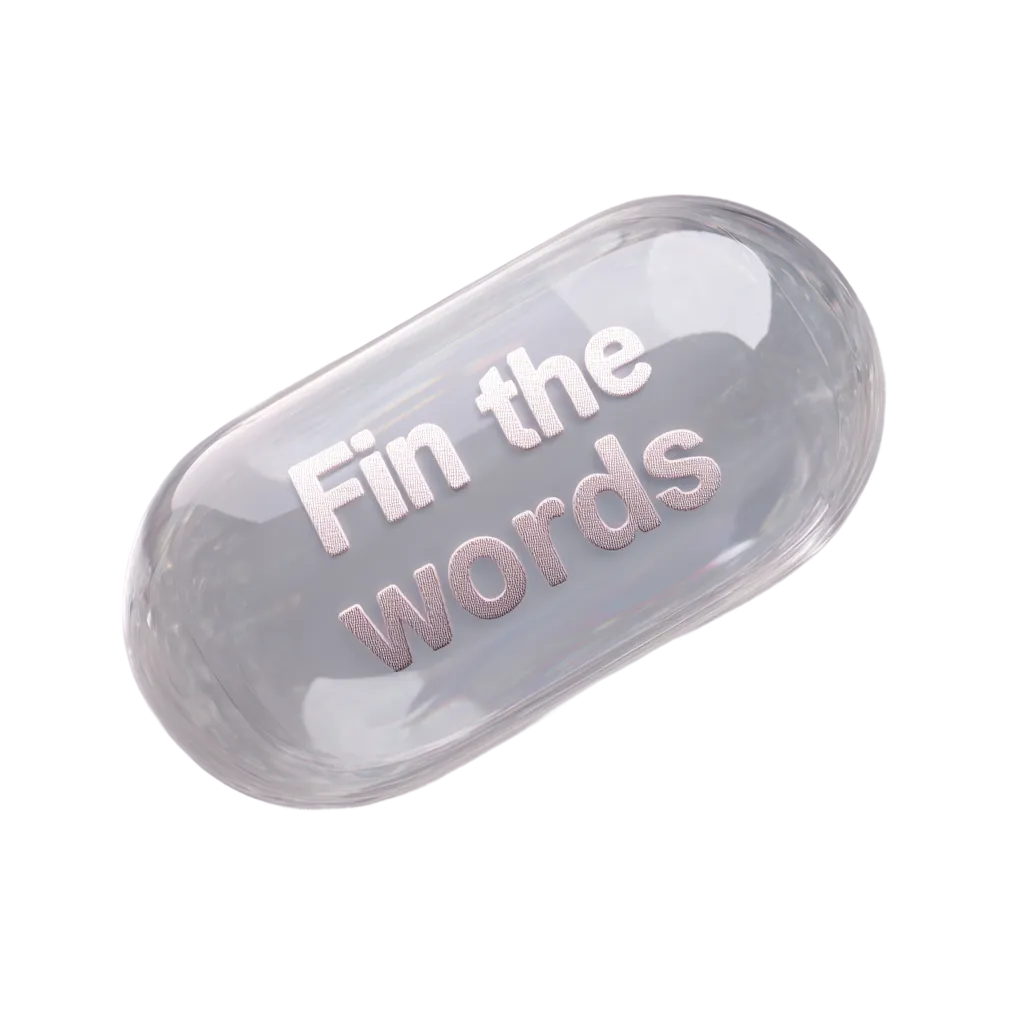
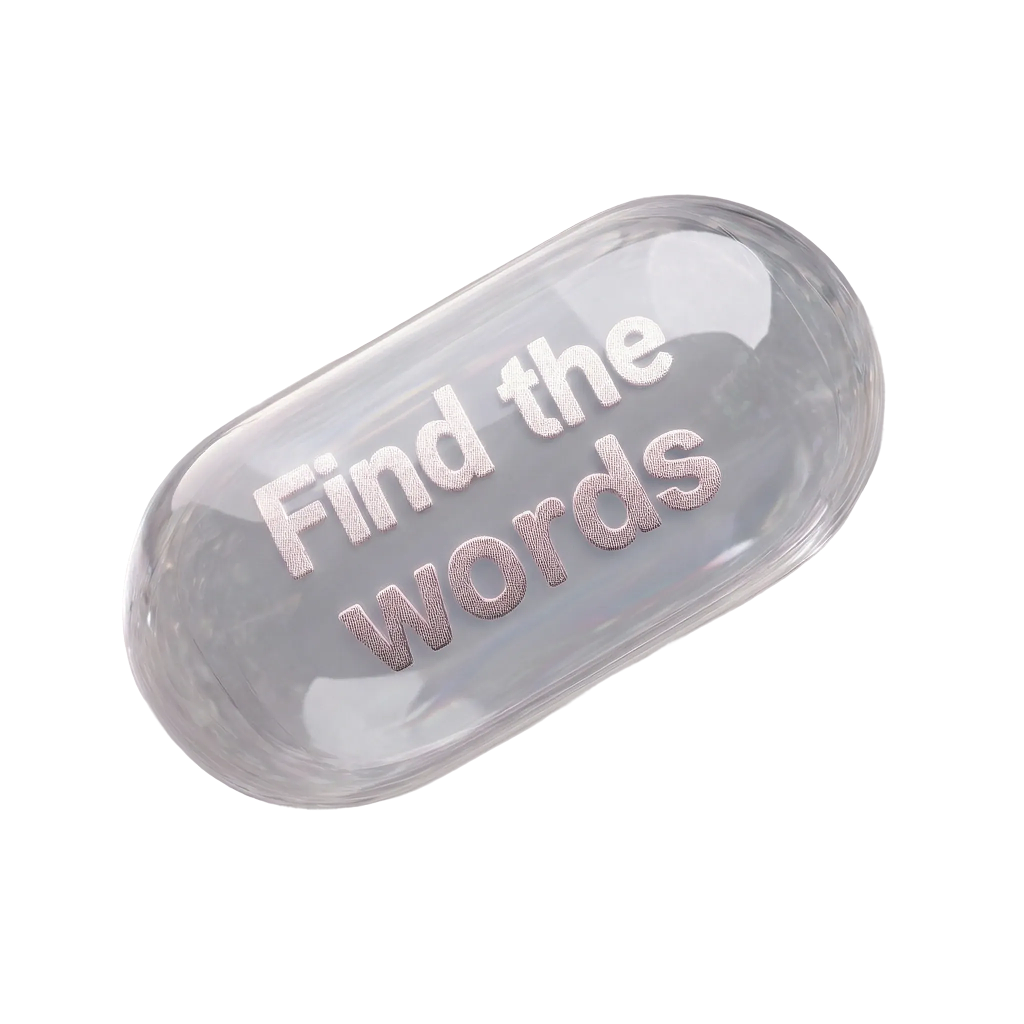
finally

Changed region(s): [[0.25, 0.3125, 0.7188, 0.6562], [0.5625, 0.6562, 0.5938, 0.6875]]

diff --git a/src/app/page.tsx b/src/app/page.tsx
@@ -945,13 +945,13 @@ function TranslateEsIcon() {
   );
 }
 
-function HeartIcon({ filled, size = 18 }: { filled: boolean; size?: number }) {
+function HeartIcon({ filled, size = 18, strokeColor = 'black' }: { filled: boolean; size?: number; strokeColor?: string }) {
   return (
     <svg width={size} height={size} viewBox="0 0 24 24" fill="none" aria-hidden="true">
       <path
         d="M12 21.35l-1.45-1.32C5.4 15.36 2 12.28 2 8.5 2 5.42 4.42 3 7.5 3c1.74 0 3.41.81 4.5 2.09C13.09 3.81 14.76 3 16.5 3 19.58 3 22 5.42 22 8.5c0 3.78-3.4 6.86-8.55 11.54L12 21.35z"
         fill={filled ? '#FF3B30' : 'none'}
-        stroke={filled ? '#FF3B30' : 'black'}
+        stroke={filled ? '#FF3B30' : strokeColor}
         strokeWidth="2"
       />
     </svg>
@@ -1018,7 +1018,7 @@ function MobileLanguageSelector({ lang, setLang }: { lang: 'EN' | 'SR' | 'ES'; s
   }
 
   return (
-    <div className="flex flex-col gap-1 bg-white/40 backdrop-blur-md rounded-full p-1 shadow-sm border border-white/20 animate-in fade-in zoom-in duration-200 pointer-events-auto">
+    <div className="flex flex-row gap-1 bg-white/40 backdrop-blur-md rounded-full p-1 shadow-sm border border-white/20 animate-in fade-in zoom-in duration-200 pointer-events-auto">
       {sortedLangs.map((l) => (
         <LangPill
           key={l}
@@ -1577,6 +1577,7 @@ export default function Page() {
 
   return (
     <div className="w-full h-[100svh] bg-[#c5cdd8] relative overflow-hidden text-black">
+
       <style jsx global>{`
         .desktopOnly {
           display: none;
@@ -1595,25 +1596,25 @@ export default function Page() {
 
         .thin-scroll {
           scrollbar-width: thin;
-          scrollbar-color: transparent transparent;
+          scrollbar-color: rgba(0, 0, 0, 0.08) transparent;
           transition: scrollbar-color 0.3s;
         }
         .thin-scroll:hover {
-          scrollbar-color: rgba(0, 0, 0, 0.28) transparent;
+          scrollbar-color: rgba(0, 0, 0, 0.15) transparent;
         }
         .thin-scroll::-webkit-scrollbar {
-          width: 6px;
+          width: 5px;
         }
         .thin-scroll::-webkit-scrollbar-track {
           background: transparent;
         }
         .thin-scroll::-webkit-scrollbar-thumb {
-          background: transparent;
+          background: rgba(0, 0, 0, 0.08);
           border-radius: 999px;
           transition: background 0.3s;
         }
         .thin-scroll:hover::-webkit-scrollbar-thumb {
-          background: rgba(0, 0, 0, 0.28);
+          background: rgba(0, 0, 0, 0.15);
         }
 
         /* girl image sizing (matches your previous bg-size behavior) */
@@ -1731,14 +1732,16 @@ export default function Page() {
 
       {/* =============== DESKTOP =============== */}
       <div className="desktopOnly">
-        <div className="absolute top-8 left-8 z-10 flex items-center gap-3">
+        <div className="absolute top-[27px] left-8 z-10 flex items-center gap-3">
           <TelegramButton size={40} />
         </div>
 
-        <div className="absolute top-8 left-1/2 -translate-x-1/2 text-center z-10 w-full px-4">
-          <h1 className="text-4xl lg:text-5xl font-bold text-black/30 tracking-tight mb-2">
-            Say it for me
-          </h1>
+        <div className="absolute top-[27px] left-1/2 -translate-x-1/2 text-center z-10 w-full px-4">
+          <img
+            src="/logo.svg"
+            alt="Say it for me"
+            className="h-10 lg:h-12 mx-auto mb-2 opacity-100 select-none pointer-events-none"
+          />
           <p className="text-lg text-black mt-0" style={{ fontFamily: 'Arial, sans-serif' }}>
             Your assistant when words are hard to find
           </p>
@@ -1748,7 +1751,7 @@ export default function Page() {
         <div className={`absolute left-12 top-32 z-10 ${glass} ${panelRadius} w-[340px] h-[610px] px-11 pt-28 pb-16 flex flex-col`}>
           <div className="flex items-center justify-between mb-4">
             <div className={`${textSize} font-bold text-black/70`}>Situation</div>
-            <div className="flex items-center gap-0">
+            <div className="flex items-center gap-[1px]">
               <button
                 type="button"
                 onClick={(e) => {
@@ -1763,11 +1766,11 @@ export default function Page() {
                     setSearchOpenDesktop(false);
                   }
                 }}
-                className={`w-9 h-9 grid place-items-center rounded-full transition-none ${scenario === 'saved' ? 'bg-black text-white' : 'bg-transparent hover:bg-white/60 text-black'}`}
+                className={`w-[34px] h-[34px] grid place-items-center rounded-full transition-none ${scenario === 'saved' ? 'bg-white/50 backdrop-blur-md shadow-sm text-black' : 'bg-transparent hover:bg-white/60 text-black'}`}
                 aria-label={scenario === 'saved' ? "Close saved" : "Saved phrases"}
                 title={scenario === 'saved' ? "Close saved" : "Saved phrases"}
               >
-                <HeartIcon filled={scenario === 'saved'} />
+                <HeartIcon size={18} filled={scenario === 'saved'} strokeColor={scenario === 'saved' ? '#FF3B30' : '#FF3B30'} />
               </button>
               <button
                 type="button"
@@ -1776,7 +1779,7 @@ export default function Page() {
                   e.stopPropagation();
                   setSearchOpenDesktop((v) => !v);
                 }}
-                className="w-9 h-9 grid place-items-center bg-transparent hover:bg-white/60 rounded-full transition-none"
+                className="w-[34px] h-[34px] grid place-items-center bg-transparent hover:bg-white/60 rounded-full transition-none"
                 aria-label="Search situations"
               >
                 <SearchIcon />
@@ -1845,10 +1848,10 @@ export default function Page() {
           <div className="flex justify-center mt-4">
             <button
               onClick={generateNext}
-              className="w-16 h-16 rounded-full shadow-xl transition-none hover:scale-105 active:scale-100 bg-[#6fbf3f] text-white flex items-center justify-center"
+              className="w-14 h-14 rounded-full shadow-xl transition-none hover:scale-105 active:scale-100 bg-[#6fbf3f] text-white flex items-center justify-center"
               aria-label="Generate phrase"
             >
-              <TwoStarsIcon size={34} />
+              <TwoStarsIcon size={30} />
             </button>
           </div>
         </div>
@@ -1923,17 +1926,17 @@ export default function Page() {
 
                 <button
                   onClick={generateNext}
-                  className="w-14 h-14 rounded-full bg-black text-white font-bold shadow-xl transition-none hover:scale-105 active:scale-100 text-[11px]"
+                  className="w-12 h-12 rounded-full bg-[#6fbf3f] text-white font-bold shadow-xl transition-none hover:scale-105 active:scale-100 text-[10px]"
                 >
                   Again
                 </button>
                 {result && (
                   <button
                     onClick={() => toggleFavorite(result.id)}
-                    className="w-14 h-14 rounded-full bg-white border border-black/5 flex items-center justify-center shadow-lg transition-none active:scale-100"
+                    className="w-12 h-12 rounded-full bg-white border border-black/5 flex items-center justify-center shadow-lg transition-none active:scale-100"
                     aria-label="Save"
                   >
-                    <HeartIcon size={24} filled={!!result && favorites.includes(result.id)} />
+                    <HeartIcon size={20} filled={!!result && favorites.includes(result.id)} strokeColor="#FF3B30" />
                   </button>
                 )}
               </div>
@@ -1945,24 +1948,19 @@ export default function Page() {
       {/* =============== MOBILE / TABLET (<1200) =============== */}
       <div className="mobileOnly">
         {/* Language Selector Top Left */}
-        <div className="absolute top-4 left-5 z-50 flex flex-col items-start">
+        <div className="absolute top-5 left-4 z-50 flex flex-col items-start">
           <MobileLanguageSelector lang={lang} setLang={setLang} />
         </div>
 
-        <div className="absolute top-4 right-5 z-10">
-          <TelegramButton size={38} />
+        <div className="absolute top-5 right-4 text-right z-10 flex justify-end">
+          <img
+            src="/logo.svg"
+            alt="Say it for me"
+            className="h-8 md:h-12 opacity-100 select-none pointer-events-none"
+          />
         </div>
 
-        <div className="absolute top-5 left-1/2 -translate-x-1/2 text-center z-10 w-full px-4">
-          <h1 className="text-3xl md:text-5xl font-bold text-black/30 tracking-tight mb-1">
-            Say it for me
-          </h1>
-          <p className="text-base md:text-lg text-black mt-1" style={{ fontFamily: 'Arial, sans-serif' }}>
-            Your assistant when words are hard to find
-          </p>
-        </div>
-
-        <div className="absolute left-0 right-0 top-[90px] md:top-[148px] bottom-[92px] px-4 md:px-6 z-20">
+        <div className="absolute left-0 right-0 top-[64px] md:top-[148px] bottom-[92px] px-4 md:px-6 z-20">
           <div className="h-full flex flex-col items-center">
             <div className="w-full max-w-[560px] md:max-w-[860px]">
               <div className="h-[340px] md:h-[520px] flex items-start justify-center relative">
@@ -2013,7 +2011,7 @@ export default function Page() {
                                   onClick={() => toggleFavorite(result.id)}
                                   className="w-8 h-8 rounded-full bg-white/50 flex items-center justify-center shadow-sm -mr-1"
                                 >
-                                  <HeartIcon size={16} filled={favorites.includes(result.id)} />
+                                  <HeartIcon size={16} filled={favorites.includes(result.id)} strokeColor="#FF3B30" />
                                 </button>
                               )}
                             </div>
@@ -2126,10 +2124,10 @@ export default function Page() {
                     speak();
                   }
                 }}
-                className="w-11 h-11 md:w-12 md:h-12 rounded-full bg-white/70 grid place-items-center transition-none active:scale-95"
+                className="w-10 h-10 md:w-11 md:h-11 rounded-full bg-white/70 grid place-items-center transition-none active:scale-95"
                 aria-label="Voice"
               >
-                <SpeakerIcon size={24} />
+                <SpeakerIcon size={20} />
               </button>
             )}
 
@@ -2146,10 +2144,10 @@ export default function Page() {
                   setSettingsOpenMobile(false);
                 }
               }}
-              className={`w-11 h-11 md:w-12 md:h-12 rounded-full grid place-items-center transition-none ${scenario === 'saved' ? 'bg-black text-white' : 'bg-white/70 text-black'}`}
+              className={`w-10 h-10 md:w-11 md:h-11 rounded-full grid place-items-center transition-none ${scenario === 'saved' ? 'bg-black text-white' : 'bg-white/70 text-black'}`}
               aria-label="Saved phrases"
             >
-              <HeartIcon filled={scenario === 'saved'} />
+              <HeartIcon size={16} filled={scenario === 'saved'} strokeColor="#FF3B30" />
             </button>
 
             <button
@@ -2163,10 +2161,10 @@ export default function Page() {
                   setSettingsOpenMobile(true);
                 }
               }}
-              className="w-11 h-11 md:w-12 md:h-12 rounded-full bg-white/70 grid place-items-center transition-none"
+              className="w-10 h-10 md:w-11 md:h-11 rounded-full bg-white/70 grid place-items-center transition-none"
               aria-label="Search situations"
             >
-              <SearchIcon />
+              <SearchIcon size={20} />
             </button>
 
             {scenario !== 'saved' && (
@@ -2179,10 +2177,10 @@ export default function Page() {
                   }
                   generateNext();
                 }}
-                className="w-11 h-11 md:w-12 md:h-12 rounded-full bg-[#6fbf3f] text-white grid place-items-center shadow-xl transition-none active:scale-100"
+                className="w-10 h-10 md:w-11 md:h-11 rounded-full bg-[#6fbf3f] text-white grid place-items-center shadow-xl transition-none active:scale-100"
                 aria-label="Generate"
               >
-                <TwoStarsIcon size={24} />
+                <TwoStarsIcon size={20} />
               </button>
             )}
           </div>
